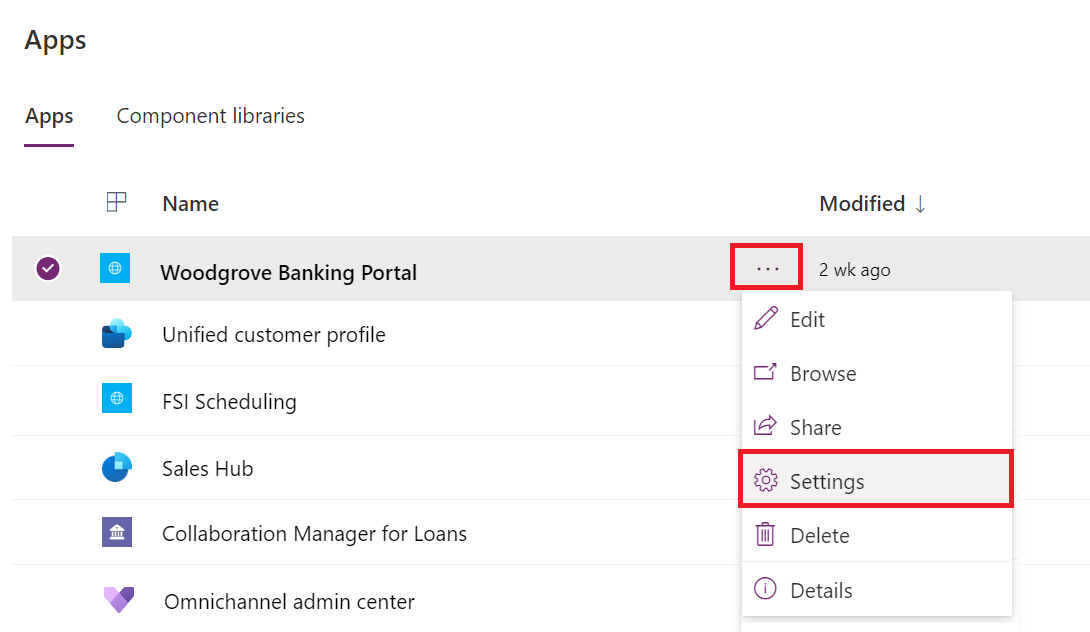
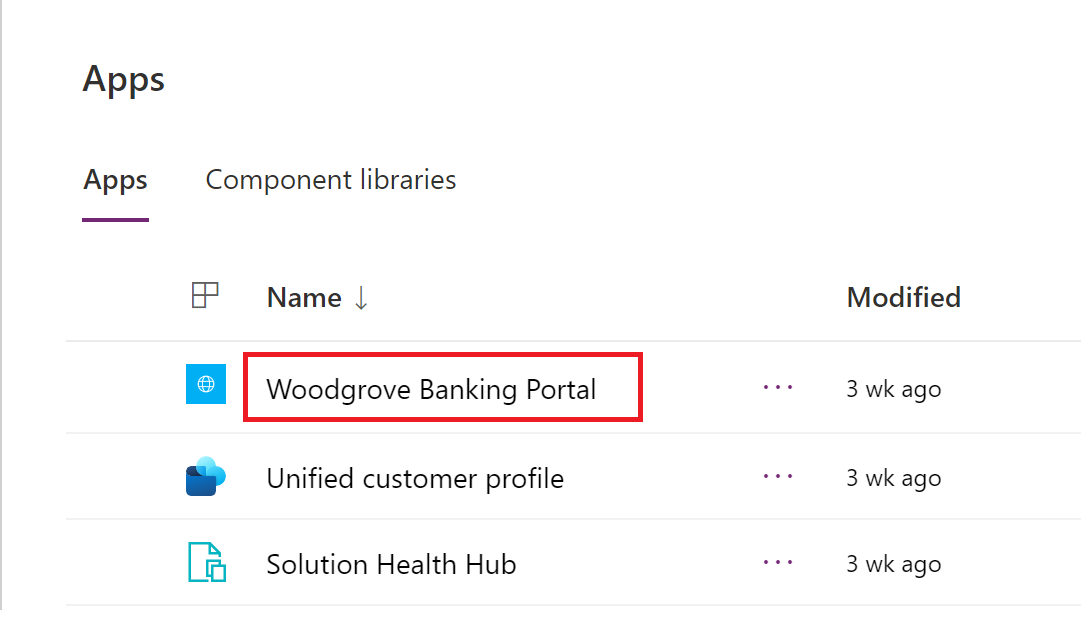
Changes to customer onboarding
Wording changes on retail banking portal and extend loan tracker unit
Screenshot and content changes on submit approve loan unit

diff --git a/learn-bizapps-pr/industry-solutions/financial-services-customer-onboarding/includes/2-retail-banking.md b/learn-bizapps-pr/industry-solutions/financial-services-customer-onboarding/includes/2-retail-banking.md
@@ -2,13 +2,13 @@ In this exercise, you'll learn how to:
 
 - Set up an external website to the Retail Banking Portal template.
 
-- Create a registration code and invite a client to create an account for the website.
+- Register on the Retail Banking Sample Portal as a Customer
 
 - Sign in as a loan applicant to navigate the features of the retail banking website.
 
 The **Retail Banking Portal** template was installed in your environment by the Customer onboarding module in Microsoft Cloud Solution Center when Microsoft Cloud for Financial Services was deployed.
 
-A portal is an external website that allows for communication between a company and its users. In this module's scenario, Woodgrove Bank wants an external website for their clients to access their loan history and communicate effectively with the institution. The **Retail Banking Portal** template tailors the website's user interface (UI) for a financial services company to focus on more secure communication, information access, and an overall improved customer experience.
+A portal is an external website that allows communication between a company and its users. In this module's scenario, Woodgrove Bank wants an external website for their clients to access their loan history and communicate effectively with the institution. The **Retail Banking Portal** template tailors the website's user interface (UI) for a financial services company to focus on more secure communication, information access, and an overall improved customer experience.
 
 The following image is an example what should display after you have set up and opened the Retail Banking Portal.
 
@@ -19,7 +19,7 @@ For more information, see [What are Power Apps portals?](/power-apps/maker/porta
 
 ## Task 1: Set up the Retail Banking Portal
 
-Prior to deploying Microsoft Cloud for Financial Services, you created a portal in your environment by using the **Customer Self-Service** template. Creating this portal was a prerequisite to installing the Retail Banking Portal as part of the Customer onboarding module.
+Prior to deploying Microsoft Cloud for Financial Services, you created a portal in your environment. Creating this portal was a prerequisite to installing the Retail Banking Portal as part of the Customer onboarding module.
 
 Woodgrove Bank wants to associate the previously installed Customer Self-Service portal with the **Retail Banking Portal** template so that the correct website is displayed to the user. The following steps will guide you through how to bind your website to the proper template and restart the portal for changes to apply.
 
@@ -66,7 +66,7 @@ First, open the portal to show the Customer Self-Service template that is curren
 
 ## Task 2: Create a new customer
 
-Now that you have set up the Retail Banking Sample Portal, you'll create an invitation for one contact in the system so that you can access the portal as a customer.
+Now that you have set up the Retail Banking Sample Portal, you'll register on the Retail Banking Sample Portal as a Customer.
 
 1. Use an In-Private or Incognito window and go to [Power Apps](https://make.powerapps.com/?azure-portal=true).
 

diff --git a/learn-bizapps-pr/industry-solutions/financial-services-customer-onboarding/includes/5-submit-approve-loan.md b/learn-bizapps-pr/industry-solutions/financial-services-customer-onboarding/includes/5-submit-approve-loan.md
@@ -20,7 +20,7 @@ To sign in to the Retail Banking Portal as a customer and then submit a loan req
     > [!div class="mx-imgBorder"]
     > [![Screenshot of the navigation menu, showing Apps selected.](../media/apps.png)](../media/apps.png#lightbox)
 
-1. Open the Woodgrove Banking Portal.
+1. Open the Woodgrove Banking Portal by clicking the name of the "Woodgrove Banking Portal" app.
 
     > [!div class="mx-imgBorder"]
     > [![Screenshot of Woodgrove Banking Portal selected from the apps list.](../media/retail-banking-portal.png)](../media/retail-banking-portal.png#lightbox)
@@ -102,16 +102,34 @@ To sign in to the Retail Banking Portal as a customer and then submit a loan req
     - **Asset description** - Savings
 
     > [!div class="mx-imgBorder"]
-    > [![Screenshot of the Your assets details filled out.](../media/assets.png)](../media/assets.png#lightbox)
+    > [![Screenshot of the assets details filled out.](../media/assets.png)](../media/assets.png#lightbox)
 
-    - **Income Type** - Employment monthly salary
+    - **Liability type** - Other
+
+    - **Amount owed (USD)** - 0
+
+    - **Liability description** - None
+
+    > [!div class="mx-imgBorder"]
+    > [![Screenshot of the liabilities details filled out.](../media/monthly-liabilities.png)](../media/monthly-liabilities.png#lightbox)
+
+    - **Income type** - Employment monthly salary
 
     - **Income amount (USD)** - 5000
 
     - **Income description** - Salary
 
     > [!div class="mx-imgBorder"]
-    > [![Screenshot of the Monthly salary details filled out.](../media/monthly-income-page-details.png)](../media/monthly-income-page-details.png#lightbox)
+    > [![Screenshot of the Monthly income details filled out.](../media/monthly-income-page-details.png)](../media/monthly-income-page-details.png#lightbox)
+
+    - **Expense type** - Credit Card Payment
+
+    - **Amount of expense (USD)** - 2000
+
+    - **Expense description** - None
+
+    > [!div class="mx-imgBorder"]
+    > [![Screenshot of the Monthly expenses filled out.](../media/monthly-expenses.png)](../media/monthly-expenses.png#lightbox)
 
 1. Select **Sole borrower** and then select **Next**.
 

diff --git a/learn-bizapps-pr/industry-solutions/financial-services-customer-onboarding/includes/3-extend-loan-tracker.md b/learn-bizapps-pr/industry-solutions/financial-services-customer-onboarding/includes/3-extend-loan-tracker.md
@@ -10,13 +10,13 @@ The business process flow presents the current application stage. This feature a
 
 When the Loan Tracker application is installed, the business process flow contains four stages:
 
-- Loan verification
+- Origination
 
-- Loan processing
+- Processing
 
 - Underwriting
 
-- Closure
+- Closing
 
 In this exercise, you'll extend the business process flow for loans to include a new **Quality Check** stage.
 
